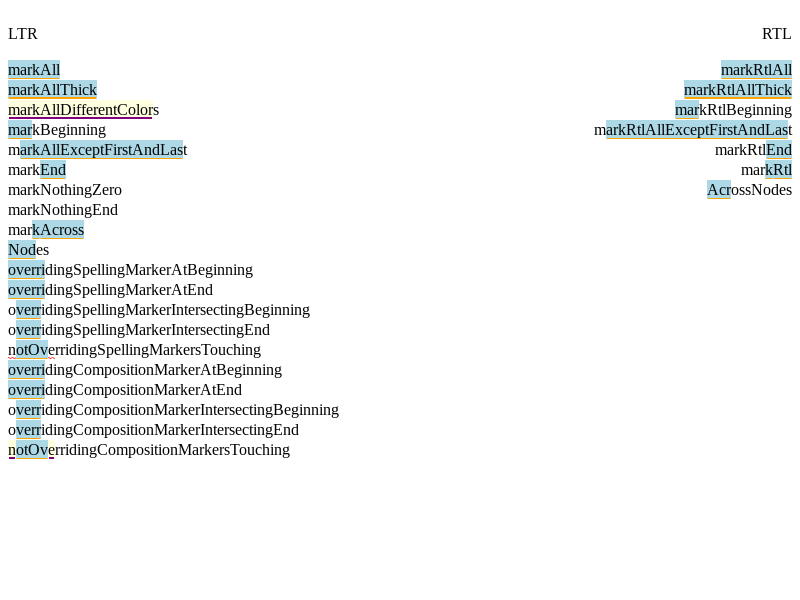
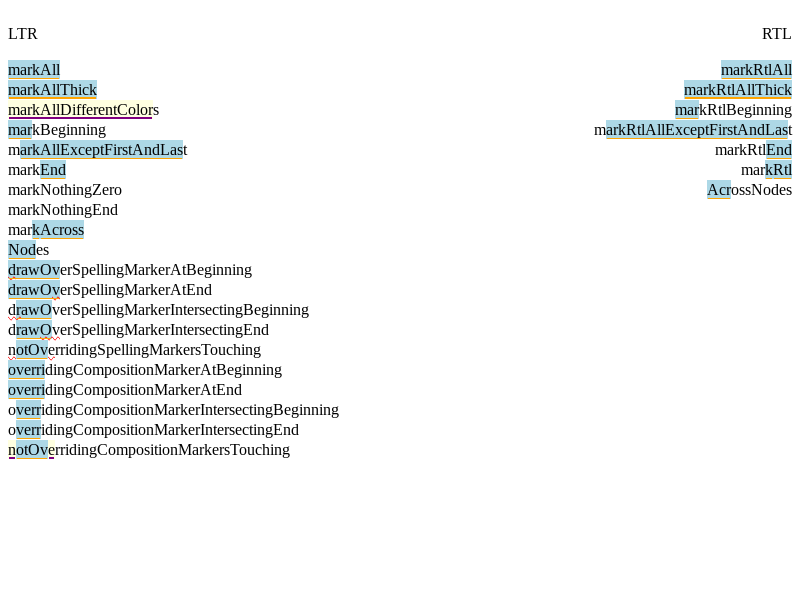
Suggestion markers no longer override spelling markers
Bug: 1321114
Commit-Queue: Stephen Chenney <schenney@chromium.org>
Cr-Commit-Position: refs/heads/main@{#1176268}

Changed region(s): [[0.0, 0.42, 0.4062, 0.57]]

diff --git a/web_tests/paint/markers/suggestion-marker-basic.html b/web_tests/paint/markers/suggestion-marker-basic.html
@@ -23,10 +23,10 @@
     <div contenteditable id="markNothingZero">markNothingZero</div>
     <div contenteditable id="markNothingEnd">markNothingEnd</div>
     <div contenteditable id="markAcrossNodes"><div>mark<span>Across</span></div><div>Nodes</div></div>
-    <div contenteditable id="overridingSpellingMarkerAtBeginning">overridingSpellingMarkerAtBeginning</div>
-    <div contenteditable id="overridingSpellingMarkerAtEnd">overridingSpellingMarkerAtEnd</div>
-    <div contenteditable id="overridingSpellingMarkerIntersectingBeginning">overridingSpellingMarkerIntersectingBeginning</div>
-    <div contenteditable id="overridingSpellingMarkerIntersectingEnd">overridingSpellingMarkerIntersectingEnd</div>
+    <div contenteditable id="drawOverSpellingMarkerAtBeginning">drawOverSpellingMarkerAtBeginning</div>
+    <div contenteditable id="drawOverSpellingMarkerAtEnd">drawOverSpellingMarkerAtEnd</div>
+    <div contenteditable id="drawOverSpellingMarkerIntersectingBeginning">drawOverSpellingMarkerIntersectingBeginning</div>
+    <div contenteditable id="drawOverSpellingMarkerIntersectingEnd">drawOverSpellingMarkerIntersectingEnd</div>
     <div contenteditable id="notOverridingSpellingMarkersTouching">notOverridingSpellingMarkersTouching</div>
     <div contenteditable id="overridingCompositionMarkerAtBeginning">overridingCompositionMarkerAtBeginning</div>
     <div contenteditable id="overridingCompositionMarkerAtEnd">overridingCompositionMarkerAtEnd</div>
@@ -96,17 +96,17 @@ onload = runAfterLayoutAndPaint(function() {
     highlightAcrossNodes(markRtlAcrossNodes.childNodes[0].firstChild, 3,
     markRtlAcrossNodes.childNodes[1].firstChild, 3);
 
-    addSuggestionMarkerSimple(overridingSpellingMarkerAtBeginning, 0, 6);
-    addSpellingMarker(overridingSpellingMarkerAtBeginning, 0, 1);
+    addSuggestionMarkerSimple(drawOverSpellingMarkerAtBeginning, 0, 6);
+    addSpellingMarker(drawOverSpellingMarkerAtBeginning, 0, 1);
 
-    addSuggestionMarkerSimple(overridingSpellingMarkerAtEnd, 0, 6);
-    addSpellingMarker(overridingSpellingMarkerAtEnd, 5, 6);
+    addSuggestionMarkerSimple(drawOverSpellingMarkerAtEnd, 0, 6);
+    addSpellingMarker(drawOverSpellingMarkerAtEnd, 5, 6);
 
-    addSuggestionMarkerSimple(overridingSpellingMarkerIntersectingBeginning, 1, 5);
-    addSpellingMarker(overridingSpellingMarkerIntersectingBeginning, 0, 2);
+    addSuggestionMarkerSimple(drawOverSpellingMarkerIntersectingBeginning, 1, 5);
+    addSpellingMarker(drawOverSpellingMarkerIntersectingBeginning, 0, 2);
 
-    addSuggestionMarkerSimple(overridingSpellingMarkerIntersectingEnd, 1, 5);
-    addSpellingMarker(overridingSpellingMarkerIntersectingEnd, 4, 6);
+    addSuggestionMarkerSimple(drawOverSpellingMarkerIntersectingEnd, 1, 5);
+    addSpellingMarker(drawOverSpellingMarkerIntersectingEnd, 4, 6);
 
     addSuggestionMarkerSimple(notOverridingSpellingMarkersTouching, 1, 5);
     addSpellingMarker(notOverridingSpellingMarkersTouching, 0, 1);
